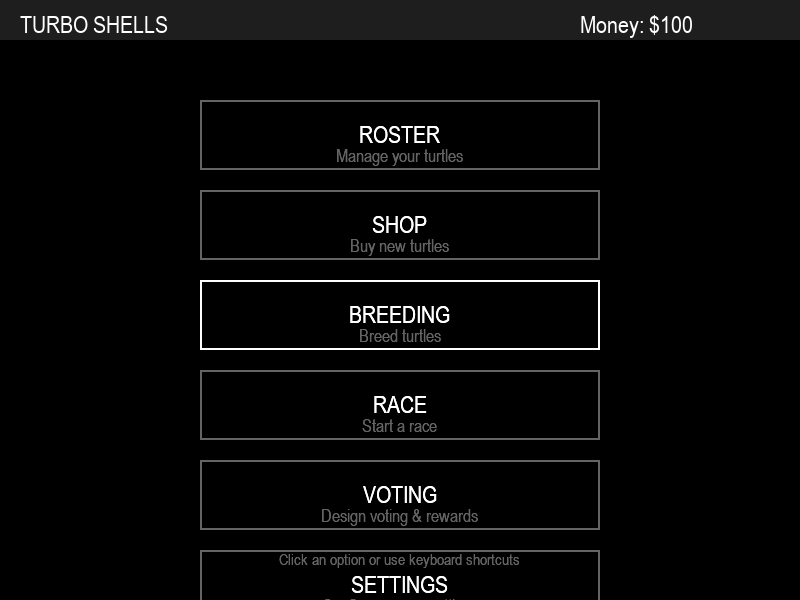
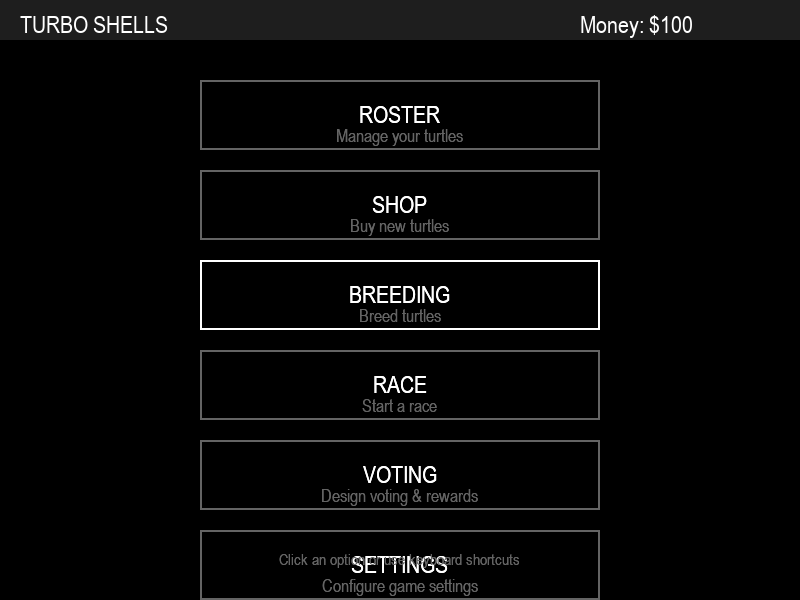
``` test: Update menu button positions to improve spacing and verify layout changes
Move all menu buttons up 20px (ROSTER from y=100 to y=80, SHOP from y=190 to y=170, BREEDING from y=280 to y=260, RACE from y=370 to y=350, VOTING from y=460 to y=440, SETTINGS from y=550 to y=530). Update test_menu_changes.py expected positions from [100,190,280,370,460,550] to [80,170,260,350,440,530]. Add logs/turboshells_20251123_101610.log and logs/turboshells_20251123_101626.log showing successful initialization

Changed region(s): [[0.25, 0.12, 0.75, 1.0]]

diff --git a/ui/layouts/positions.py b/ui/layouts/positions.py
@@ -74,13 +74,13 @@ PROFILE_NEXT_BTN_RECT = pygame.Rect(470, 575, 80, 25)
 PROFILE_DOTS_START_X = 340
 PROFILE_DOTS_Y = 590
 
-# 6. Main Menu Layout - Moved buttons up
-MENU_ROSTER_RECT = pygame.Rect(200, 100, 400, 70)
-MENU_SHOP_RECT = pygame.Rect(200, 190, 400, 70)
-MENU_BREEDING_RECT = pygame.Rect(200, 280, 400, 70)
-MENU_RACE_RECT = pygame.Rect(200, 370, 400, 70)
-MENU_VOTING_RECT = pygame.Rect(200, 460, 400, 70)
-MENU_SETTINGS_RECT = pygame.Rect(200, 550, 400, 70)  # Added Settings at bottom
+# 6. Main Menu Layout - Moved buttons up further for better spacing
+MENU_ROSTER_RECT = pygame.Rect(200, 80, 400, 70)
+MENU_SHOP_RECT = pygame.Rect(200, 170, 400, 70)
+MENU_BREEDING_RECT = pygame.Rect(200, 260, 400, 70)
+MENU_RACE_RECT = pygame.Rect(200, 350, 400, 70)
+MENU_VOTING_RECT = pygame.Rect(200, 440, 400, 70)
+MENU_SETTINGS_RECT = pygame.Rect(200, 530, 400, 70)  # Added Settings at bottom
 
 # 4. Shop Layout - Redesigned for larger images and better layout
 SHOP_SLOT_1_RECT = pygame.Rect(50, 80, 220, 380)  # Larger and extended down

diff --git a/test_menu_changes.py b/test_menu_changes.py
@@ -32,8 +32,8 @@ def test_menu_layout():
         # Test 1: Check if layout positions are correct
         print("\n📍 Testing Layout Positions...")
         
-        # Verify buttons are moved up (Y positions should be lower)
-        expected_positions = [100, 190, 280, 370, 460, 550]  # Expected Y positions
+        # Verify buttons are moved up further (Y positions should be even lower)
+        expected_positions = [80, 170, 260, 350, 440, 530]  # Updated expected Y positions
         actual_rects = [
             layout.MENU_ROSTER_RECT,
             layout.MENU_SHOP_RECT, 
